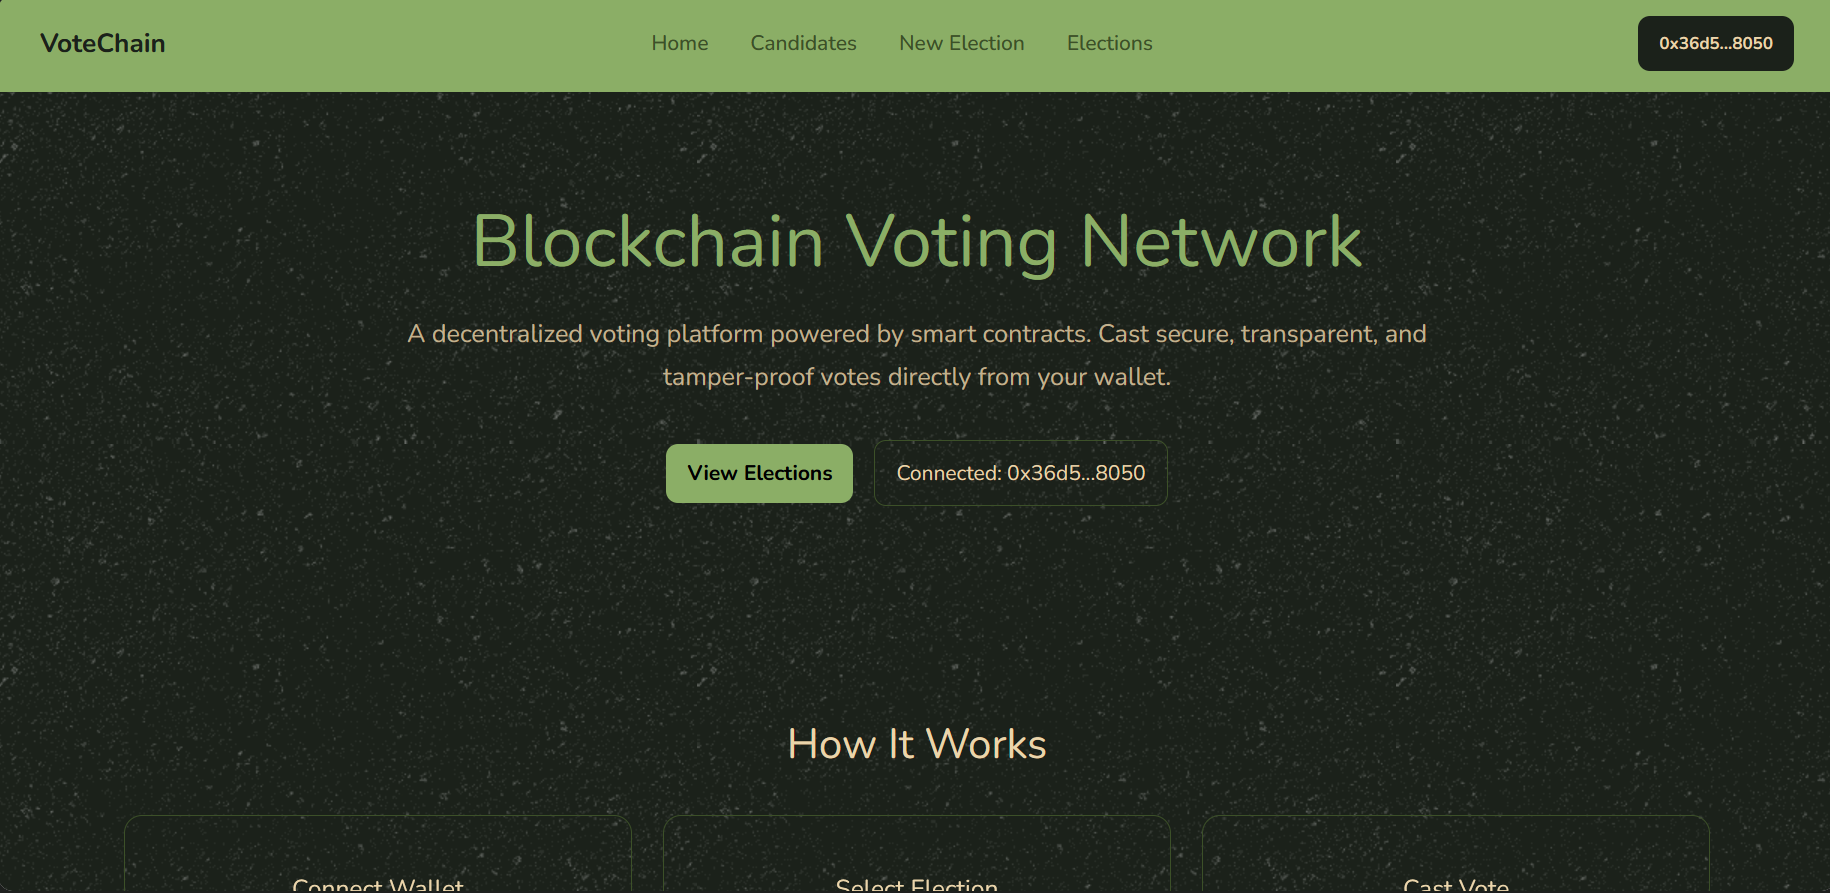
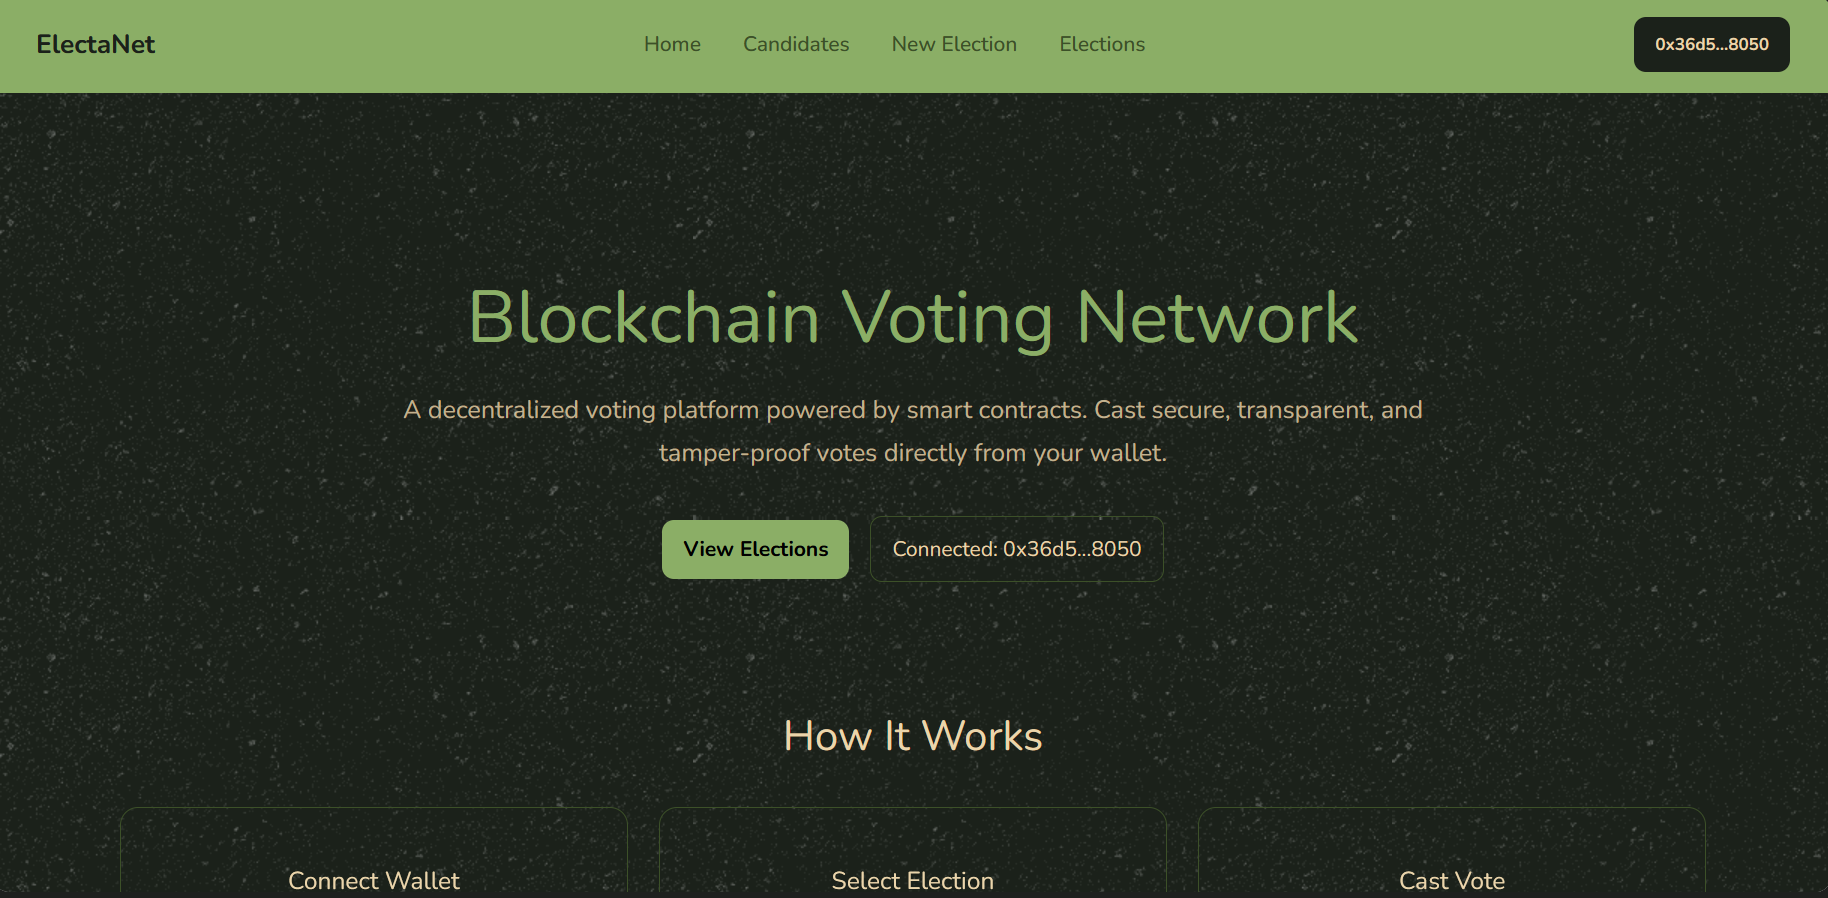
Update README.md

diff --git a/contracts/README.md b/contracts/README.md
@@ -1,4 +1,4 @@
-# Blockchain Voting Network
+# ElectaNet Contracts
 
 ## 📑 Table of Contents
 
